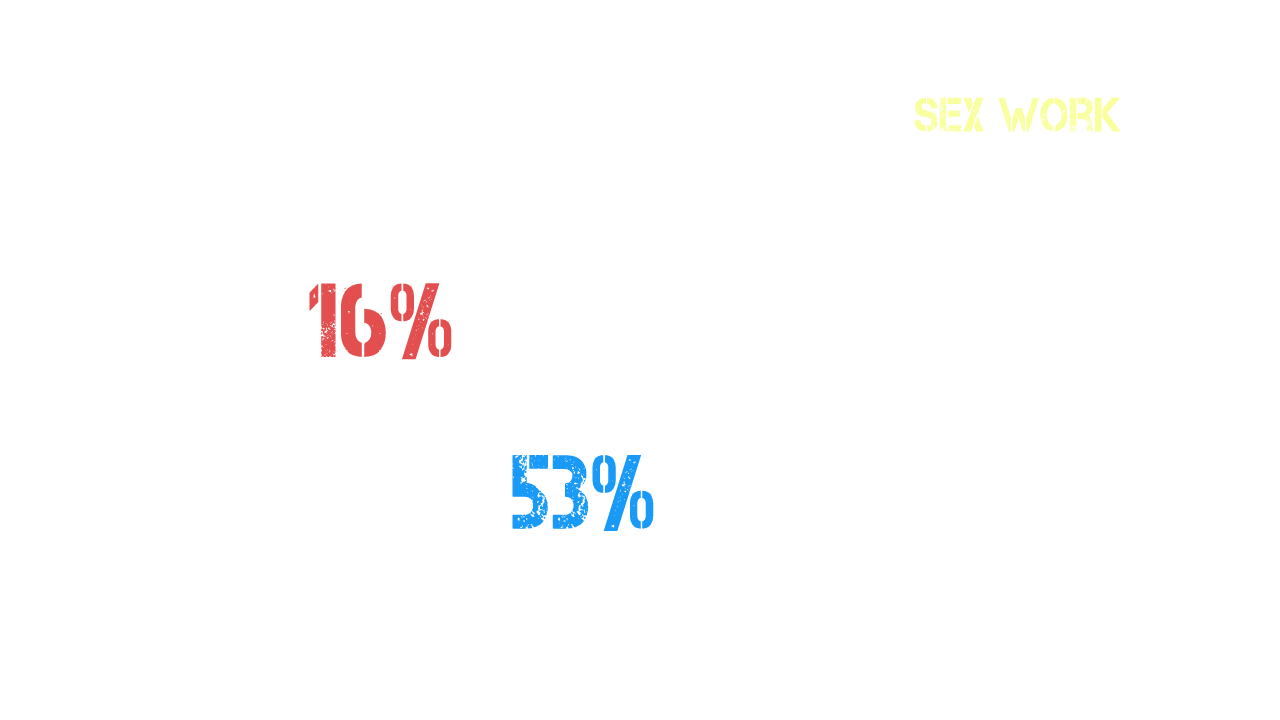
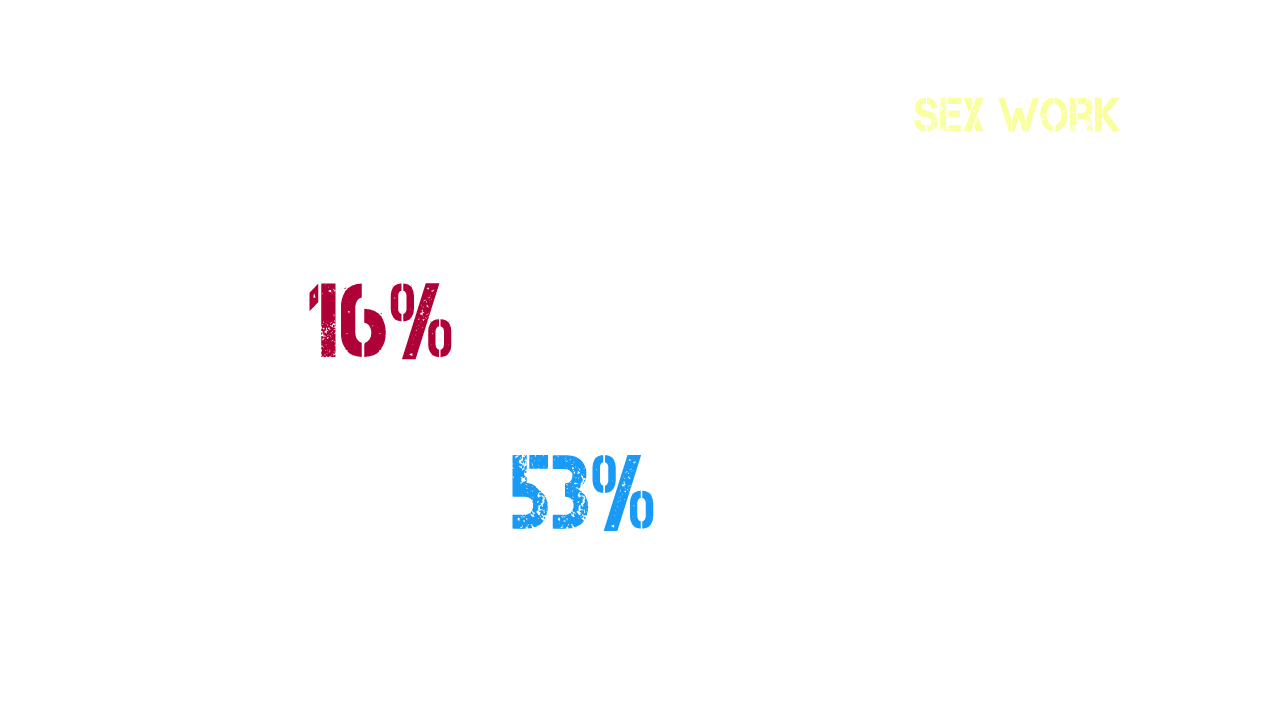
Minor Changes and Artist Statment add

Changed region(s): [[0.2188, 0.3972, 0.375, 0.5194]]

diff --git a/index.html b/index.html
@@ -11,8 +11,6 @@
     <link href="https://fonts.googleapis.com/css?family=Bebas+Neue&display=swap" rel="stylesheet">
     <!-- <title>Hello, world!</title> -->
     <div class="page-header" style="cursor: pointer" onclick="location.href='index.html';">
-    <!--
-      <img src="images/logo3.png" class="logo"/> -->
     </div>
   </head>
 
@@ -25,13 +23,14 @@
       </div>
       <div class="container contents vis3">
       </div>
+
       <div class="container contents">
         <h1 class="txt-header"> WHO WE ARE </h1>
         <p style="text-align:center"> WE ARE a task force service built to protect marginalized
           identities, centering the black trans woman experience.
           Black trans women are our most marginalized community,
           facing physical + sexual violence at an epidemic scale.
-          They receive little support from a movement that has is meant to
+          They receive little support from a movement that is meant to
           center the lives of the black community. </p>
       </div>
 
@@ -40,9 +39,9 @@
       <p> Collective liberation requires us to recognize that we are as strong
         as our most marginalized. </p>
       <ul id="wants">
-      <li> We want freedom. We want power to determine the destiny of our Black Trans Community. </li>
-      <li> We want full employment for our black trans women. </li>
-      <li> We want an end to the robbery by the capitalists of our black and oppressed communities. </li>
+      <li> We want freedom. We want power to determine the destiny of the Black Trans Community. </li>
+      <li> We want full employment for black trans women. </li>
+      <li> We want an end to the robbery by the capitalists of black and oppressed communities. </li>
       <li> We want decent housing, fit for shelter of black trans women. </li>
       <li> We want education for our people that exposes the true nature of
           this decadent American society. We want education that teaches us
@@ -71,9 +70,9 @@
                 the TSAP app that will alert 5 nearby task force drivers in the
                 area to come and driver the user to whatever location is most safe for them. </p>
           <li> Accountability Buddy:</li>
-          <p> When the user signs up for the app, they
+          <p> Once signed up for a watch, you
           will be given the chance to register an accountability buddy who will
-          be given secured access to the app. If the user enters a situation that
+          be given secured access to the app. If the watch user enters a situation that
           they feel may endanger them, they will be able to “check in” when
           they enter the space, log how much time they plan to be in the space,
           an option to send their accountability buddy their location and

diff --git a/css/style.css b/css/style.css
@@ -74,9 +74,9 @@
   padding-bottom: 10px;
   color: white;
   text-align: center;
-  font-size: 1.5em;
+  font-size: 2em;
   /*text-decoration: underline;*/
-  text-shadow: 2px 2px #484a4b;
+  text-shadow: 2px 2px #AF0037;
   font-family: 'Bebas Neue', cursive;
 }
 
@@ -93,10 +93,11 @@
 
 .vis1 {
   background-repeat: no-repeat;
-  background-image: url("../images/desihall.png");
+  background-image: url("../images/vis1.png");
   background-color: black;
   opacity: .95;
-  background-size: contain;
+  height: 400px;
+  background-size: 95% 80%;
 }
 
 .vis2 {

diff --git a/README.md b/README.md
@@ -1,1 +1,13 @@
-# The To Serve and Protest Project
+#Link To project
+
+http://seleanridley.github.io/ToServeAndProtest/
+
+# The To Serve and Protest Project Artist Statement
+
+To Serve and Protest is a statement and a call to action. The conditions in which black trans women are forced to exist in on a daily basis are unacceptable and below basic standards of what any human being in the US should endure. If any of us truly believe that collective liberation is possible, we must understand that all our struggles are connected and that we are as powerful as our most marginalized community. This project is meant to bring awareness to the epidemic of violence  that has gone under the radar and outright ignored by individuals/institutions of power. The task force’s “wants” listed in the project are a reframed version of the Black Panther Party’s Ten Point Program Manifesto centered around the lives of black trans women in hopes that it will make the user question why they were needed before, why they’re needed now and imagine a future in which these are possible and can come into fruition. The statistics that are presented in this piece I hope are jolting pieces of information that you bring home to your friends and family for discussion.
+
+As a black trans individual, this piece means a lot to me as it is the community that I’ve found a home in. For the past year, it’s been extremely hard to watch the deaths of my trans sisters collect and to feel as if we’re screaming in protest into an empty void. We watch time and time again as the lives of black cis men are centered, even though they are not the only victims of police violence and are not at the most risk. In a time where even the Black Lives Matter movement does not draw attention to the voices and lives of black trans individuals, we have no choice but to amplify our own voices.
+
+I hope that when people engage with the piece, they ask less of “Why Should We?“and more of “Why not?”. I call for viewers to ask themselves whether they would sign up for the task force, and/or whether they would share it with friends.
+
+--Dominic Ridley
